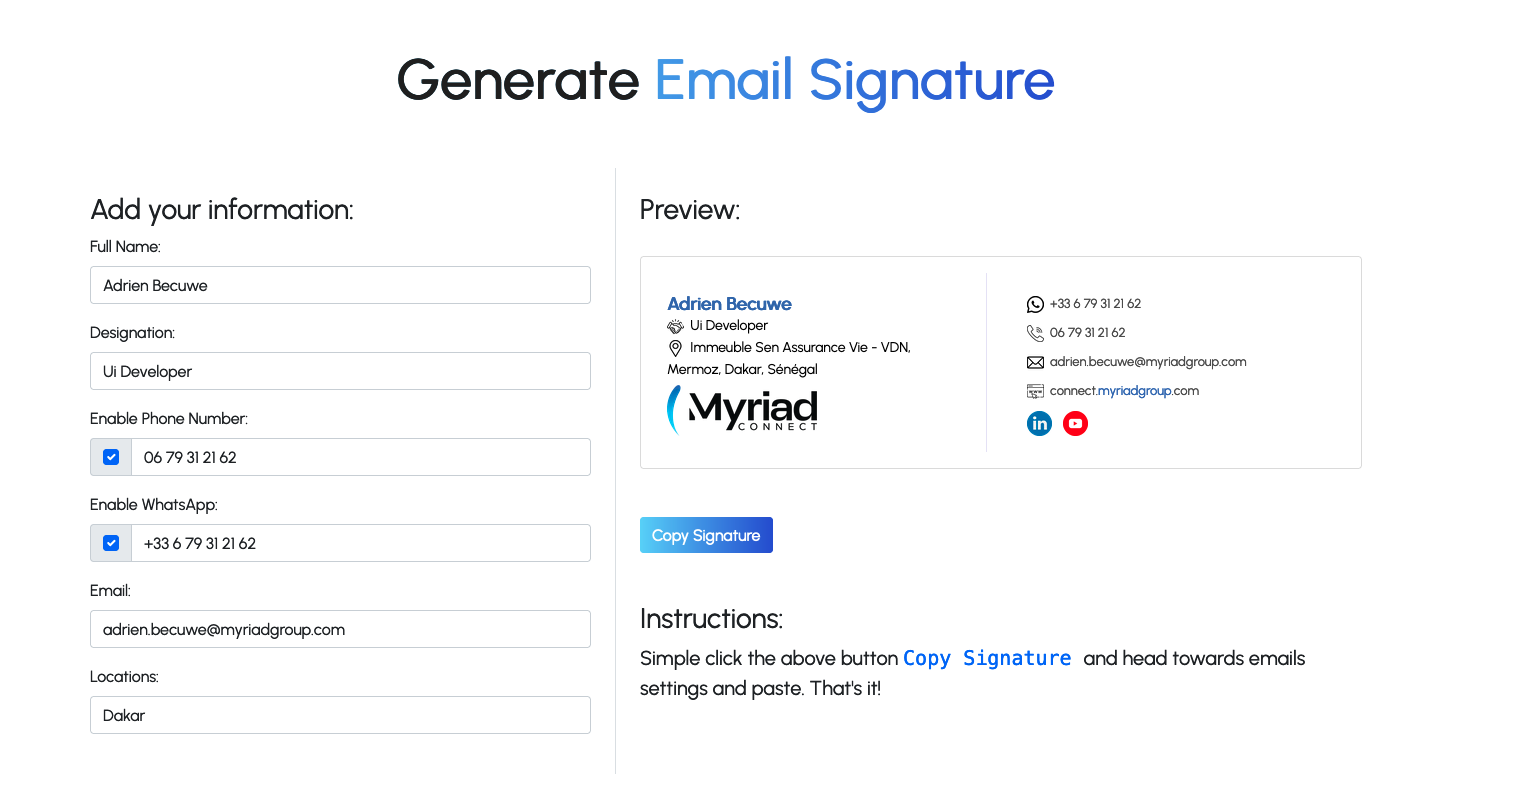
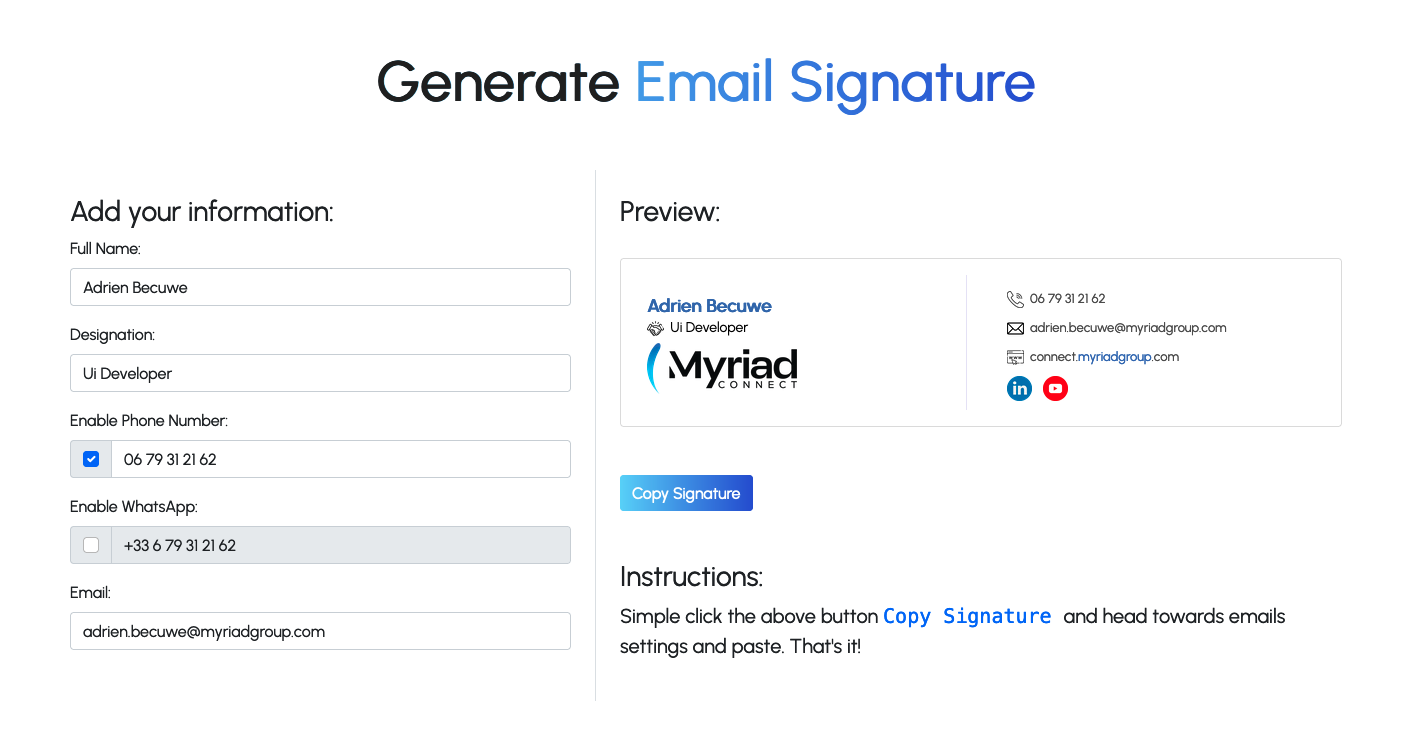
remove address

diff --git a/index.html b/index.html
@@ -21,7 +21,7 @@
         display: none !important;
       }
     </style>
-    <title>Generate Myriad Group Email Signature</title>
+    <title>Myriad Group - Email Signature Generator</title>
   </head>
   <body>
     <section class="section">
@@ -86,7 +86,7 @@
                 <input class="form-control" id="email" placeholder="Your email">
               </div>
 
-              <div class="mb-3">
+              <!-- <div class="mb-3" >
                 <label for="checkPhone" class="form-label">Locations:</label>
                 <div class="input-group mb-3">
                   <select class="form-control"  id="locations" class="form-select form-select-lg mb-3" aria-label=".form-select-lg example">
@@ -98,7 +98,16 @@
                   </select>
                   
                 </div>
-              </div>
+              </div> 
+            
+                <p style="margin: 0px; font-size: 14px; line-height: 22px;">
+                <img src="" class="mapsLogo" alt="location" style="width: 20px; height: auto;padding-right:3px" width="20px" height="20px">
+                
+                <span class="locationWrap">
+                  Locate in...
+                </span>
+              </p>
+            -->
 
               
               <!-- <div class="mb-3">
@@ -136,13 +145,7 @@
                             Specialist in...
                           </span>
                         </p>
-                        <p style="margin: 0px; font-size: 14px; line-height: 22px;">
-                          <img src="" class="mapsLogo" alt="location" style="width: 20px; height: auto;padding-right:3px" width="20px" height="20px">
-                          
-                          <span class="locationWrap">
-                            Locate in...
-                          </span>
-                        </p>
+
                         <p style="margin: 0px; font-size: 0px;padding-top:5px">
                           <span style="white-space:nowrap;" id="logoWrap">
                             <img src="" class="logo" alt="Myriad Connect" style="width: 150px; height: auto;" alt="" width="150" height="50">
